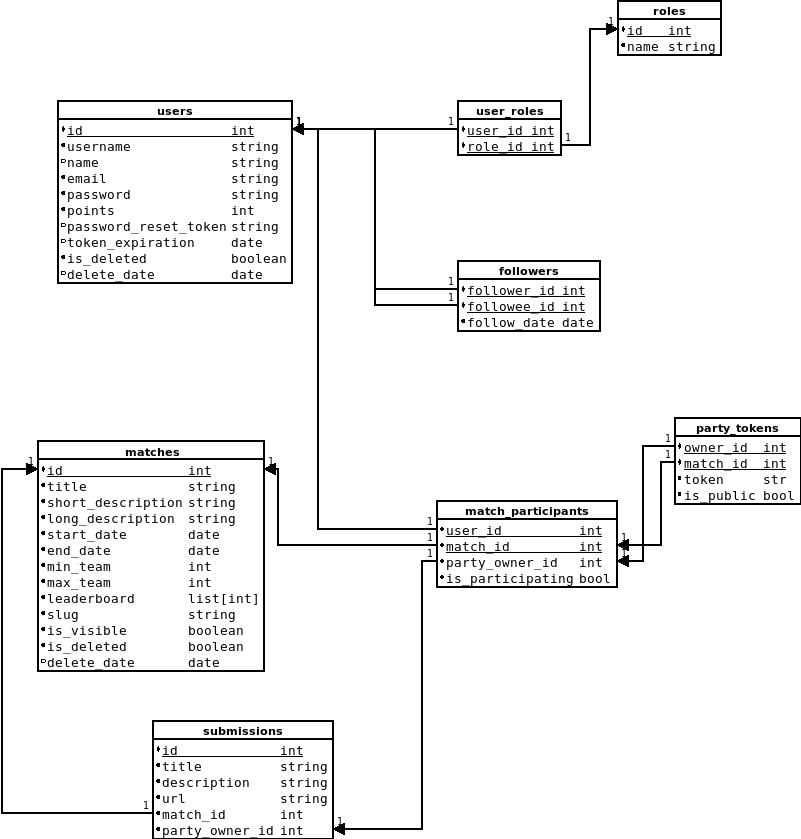
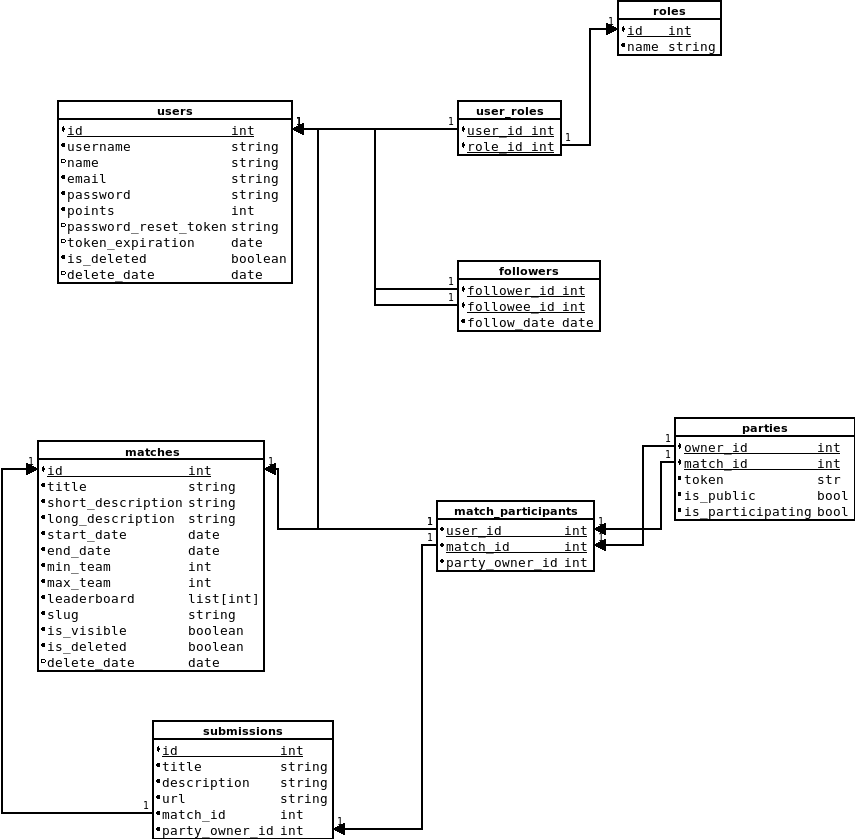
publish: Changed PartyToken to Party
generated from commit ce387fedfbb9ed21f8b54d0d9df1e5b9310710a0

diff --git a/index.html b/index.html
@@ -243,7 +243,7 @@
                     <a href="#matchparticipant" class="toc-h2 toc-link" data-title="MatchParticipant">MatchParticipant</a>
                   </li>
                   <li>
-                    <a href="#partytoken" class="toc-h2 toc-link" data-title="PartyToken">PartyToken</a>
+                    <a href="#party" class="toc-h2 toc-link" data-title="Party">Party</a>
                   </li>
                   <li>
                     <a href="#submission" class="toc-h2 toc-link" data-title="Submission">Submission</a>
@@ -705,14 +705,9 @@ token as public, which in turn shows the party in a <em>Looking For Group</em> s
 <td>integer</td>
 <td>ID of the owner of the party the user is currently in [Foreign key]</td>
 </tr>
-<tr>
-<td>is_participating</td>
-<td>boolean</td>
-<td>Flag that is set when the match begins indicating whether the user is participating in the match (e.g. the party has the required number of members)</td>
-</tr>
 </tbody></table>
-<h2 id='partytoken'>PartyToken</h2>
-<p>Party tokens are used to join a party.</p>
+<h2 id='party'>Party</h2>
+<p>Party marks. Contain tokens that are used to join a party.</p>
 
 <p>These tokens are created on demand when the user signs up for a match and is
 the owner of the party they are currently in. The token is deleted when
@@ -749,6 +744,11 @@ the user joins a different party.</p>
 <td>must provide the link to join the party manually</td>
 <td></td>
 <td></td>
+</tr>
+<tr>
+<td>is_participating</td>
+<td>boolean</td>
+<td>Flag that is set when the match begins indicating whether the party is participating in the match (e.g. the party has the required number of members)</td>
 </tr>
 </tbody></table>
 <h2 id='submission'>Submission</h2>
@@ -863,8 +863,8 @@ a user&#39;s own account.</p>
 <p>Example response [409]:</p>
 </blockquote>
 <pre class="highlight json tab-json"><code><span class="p">{</span><span class="w">
-    </span><span class="s2">"status"</span><span class="p">:</span><span class="w"> </span><span class="s2">"error"</span><span class="p">,</span><span class="w">
-    </span><span class="s2">"message"</span><span class="p">:</span><span class="w"> </span><span class="s2">"A user with the specified details already exists"</span><span class="w">
+    </span><span class="s2">"status"</span><span class="p">:</span><span class="w"> </span><span class="s2">"fail"</span><span class="p">,</span><span class="w">
+    </span><span class="s2">"data"</span><span class="p">:</span><span class="w"> </span><span class="s2">"A user with the specified details already exists"</span><span class="w">
 </span><span class="p">}</span><span class="w">
 </span></code></pre>
 <blockquote>
@@ -1116,6 +1116,16 @@ Authenticated endpoint.
 </span><span class="p">}</span><span class="w">
 </span></code></pre>
 <blockquote>
+<p>Example response [400]:</p>
+</blockquote>
+<pre class="highlight json tab-json"><code><span class="p">{</span><span class="w">
+    </span><span class="s2">"status"</span><span class="p">:</span><span class="w"> </span><span class="s2">"fail"</span><span class="p">,</span><span class="w">
+    </span><span class="s2">"data"</span><span class="p">:</span><span class="w"> </span><span class="p">{</span><span class="w">
+        </span><span class="s2">"email"</span><span class="p">:</span><span class="w"> </span><span class="s2">"Invalid email"</span><span class="w">
+    </span><span class="p">}</span><span class="w">
+</span><span class="p">}</span><span class="w">
+</span></code></pre>
+<blockquote>
 <p>Example response [404]:</p>
 </blockquote>
 <pre class="highlight json tab-json"><code><span class="p">{</span><span class="w">
@@ -1142,6 +1152,10 @@ Authenticated endpoint.
 <tr>
 <td>200</td>
 <td>Profile was found, returns new details</td>
+</tr>
+<tr>
+<td>400</td>
+<td>Email format was not valid</td>
 </tr>
 <tr>
 <td>404</td>
@@ -1381,7 +1395,7 @@ Authenticated endpoint.
 <pre class="highlight json tab-json"><code><span class="p">{</span><span class="w">
     </span><span class="s2">"status"</span><span class="p">:</span><span class="w"> </span><span class="s2">"fail"</span><span class="p">,</span><span class="w">
     </span><span class="s2">"data"</span><span class="p">:</span><span class="w"> </span><span class="p">{</span><span class="w">
-        </span><span class="s2">"password"</span><span class="p">:</span><span class="w"> </span><span class="s2">"Field was missing in request"</span><span class="w">
+        </span><span class="s2">"current-password"</span><span class="p">:</span><span class="w"> </span><span class="s2">"Field was missing in request"</span><span class="w">
         </span><span class="s2">"new-password"</span><span class="p">:</span><span class="w"> </span><span class="s2">"Password not complex enough"</span><span class="w">
     </span><span class="p">}</span><span class="w">
 </span><span class="p">}</span><span class="w">
@@ -1477,6 +1491,16 @@ and belongs to a user account.</p>
 </span><span class="p">}</span><span class="w">
 </span></code></pre>
 <blockquote>
+<p>Example response [400]:</p>
+</blockquote>
+<pre class="highlight json tab-json"><code><span class="p">{</span><span class="w">
+    </span><span class="s2">"status"</span><span class="p">:</span><span class="w"> </span><span class="s2">"success"</span><span class="p">,</span><span class="w">
+    </span><span class="s2">"data"</span><span class="p">:</span><span class="w"> </span><span class="p">{</span><span class="w">
+        </span><span class="s2">"email"</span><span class="p">:</span><span class="w"> </span><span class="s2">"Field was missing"</span><span class="w">
+    </span><span class="p">}</span><span class="w"> 
+</span><span class="p">}</span><span class="w">
+</span></code></pre>
+<blockquote>
 <p>Example response [500]:</p>
 </blockquote>
 <pre class="highlight json tab-json"><code><span class="p">{</span><span class="w">
@@ -1495,6 +1519,10 @@ and belongs to a user account.</p>
 <tr>
 <td>200</td>
 <td>Password reset token generated (if the email exists)</td>
+</tr>
+<tr>
+<td>400</td>
+<td>Email field was missing</td>
 </tr>
 <tr>
 <td>500</td>
@@ -1639,6 +1667,14 @@ endpoint), it is not recommended.</p>
     </span><span class="p">}</span><span class="w">
 </span></code></pre>
 <blockquote>
+<p>Example response[404]:</p>
+</blockquote>
+<pre class="highlight json tab-json"><code><span class="p">{</span><span class="w">
+    </span><span class="s2">"status"</span><span class="p">:</span><span class="w"> </span><span class="s2">"error"</span><span class="p">,</span><span class="w">
+    </span><span class="s2">"message"</span><span class="p">:</span><span class="w"> </span><span class="s2">"Invalid token"</span><span class="w">
+</span><span class="p">}</span><span class="w">
+</span></code></pre>
+<blockquote>
 <p>Example response [500]:</p>
 </blockquote>
 <pre class="highlight json tab-json"><code><span class="p">{</span><span class="w">
@@ -1661,6 +1697,10 @@ endpoint), it is not recommended.</p>
 <tr>
 <td>400</td>
 <td>Password was not complex enough or the confirmation did not match</td>
+</tr>
+<tr>
+<td>404</td>
+<td>Reset token was not found</td>
 </tr>
 <tr>
 <td>500</td>
@@ -1981,7 +2021,7 @@ Authenticated endpoint.
 for the user in the specified match. By default, the user will be in their own
 party, therefore the <code>party_owner_id</code> will be the user ID.</p>
 
-<p>In addition, a <a href="#partytoken"><code>PartyToken</code></a> is also created. This token can be
+<p>In addition, a <a href="#party"><code>Party</code></a> is also created. The party token can be
 used to invite other users to your own party. It is deleted once the user joins
 a party owned by another user.</p>
 <h3 id='http-request-5'>HTTP Request</h3>
@@ -2043,6 +2083,16 @@ a party owned by another user.</p>
 </span><span class="p">}</span><span class="w">
 </span></code></pre>
 <blockquote>
+<p>Example response [403]:</p>
+</blockquote>
+<pre class="highlight json tab-json"><code><span class="p">{</span><span class="w">
+    </span><span class="s2">"status"</span><span class="p">:</span><span class="w"> </span><span class="s2">"fail"</span><span class="p">,</span><span class="w">
+    </span><span class="s2">"data"</span><span class="p">:</span><span class="w"> </span><span class="p">{</span><span class="w">
+        </span><span class="s2">"match"</span><span class="p">:</span><span class="w"> </span><span class="s2">"Match has already started"</span><span class="w">
+    </span><span class="p">}</span><span class="w">
+</span><span class="p">}</span><span class="w">
+</span></code></pre>
+<blockquote>
 <p>Example response [404]:</p>
 </blockquote>
 <pre class="highlight json tab-json"><code><span class="p">{</span><span class="w">
@@ -2083,6 +2133,10 @@ a party owned by another user.</p>
 <td>Not logged in</td>
 </tr>
 <tr>
+<td>403</td>
+<td>Match has already started</td>
+</tr>
+<tr>
 <td>404</td>
 <td>Match was not found (or is invisible or removed)</td>
 </tr>
@@ -2099,6 +2153,8 @@ Authenticated endpoint.
 <p>Leave a match before it begins. This implies that the user will automatically
 leave any party they are in and their <a href="#matchparticipant"><code>MatchParticipant</code></a>
 record will be deleted.</p>
+
+<p>A party leader cannot leave until the party is empty.</p>
 <h3 id='http-request-6'>HTTP Request</h3>
 <p><code>POST /v1/match/leave</code></p>
 
@@ -2156,6 +2212,16 @@ record will be deleted.</p>
 </span><span class="p">}</span><span class="w">
 </span></code></pre>
 <blockquote>
+<p>Example response [403]:</p>
+</blockquote>
+<pre class="highlight json tab-json"><code><span class="p">{</span><span class="w">
+    </span><span class="s2">"status"</span><span class="p">:</span><span class="w"> </span><span class="s2">"fail"</span><span class="p">,</span><span class="w">
+    </span><span class="s2">"data"</span><span class="p">:</span><span class="w"> </span><span class="p">{</span><span class="w">
+        </span><span class="s2">"match"</span><span class="p">:</span><span class="w"> </span><span class="s2">"The party is not empty"</span><span class="w">
+    </span><span class="p">}</span><span class="w">
+</span><span class="p">}</span><span class="w">
+</span></code></pre>
+<blockquote>
 <p>Example response [404]:</p>
 </blockquote>
 <pre class="highlight json tab-json"><code><span class="p">{</span><span class="w">
@@ -2194,6 +2260,10 @@ record will be deleted.</p>
 <tr>
 <td>401</td>
 <td>Not logged in</td>
+</tr>
+<tr>
+<td>403</td>
+<td>The party is not empty</td>
 </tr>
 <tr>
 <td>404</td>
@@ -2336,11 +2406,13 @@ functionality.</p>
         </span><span class="s2">"list"</span><span class="p">:</span><span class="w"> </span><span class="p">[</span><span class="w">
             </span><span class="p">{</span><span class="w">
                 </span><span class="s2">"leader"</span><span class="p">:</span><span class="w"> </span><span class="s2">"user16"</span><span class="p">,</span><span class="w">
-                </span><span class="s2">"members"</span><span class="p">:</span><span class="w"> </span><span class="p">[</span><span class="s2">"user16"</span><span class="p">]</span><span class="w">
+                </span><span class="s2">"members"</span><span class="p">:</span><span class="w"> </span><span class="p">[</span><span class="s2">"user16"</span><span class="p">],</span><span class="w">
+                </span><span class="s2">"party-token"</span><span class="p">:</span><span class="w"> </span><span class="s2">"12345678"</span><span class="w">
             </span><span class="p">},</span><span class="w">
             </span><span class="p">{</span><span class="w">
                 </span><span class="s2">"leader"</span><span class="p">:</span><span class="w"> </span><span class="s2">"user48"</span><span class="p">,</span><span class="w">
-                </span><span class="s2">"members"</span><span class="p">:</span><span class="w"> </span><span class="p">[</span><span class="s2">"user45"</span><span class="p">,</span><span class="w"> </span><span class="s2">"user91"</span><span class="p">]</span><span class="w">
+                </span><span class="s2">"members"</span><span class="p">:</span><span class="w"> </span><span class="p">[</span><span class="s2">"user45"</span><span class="p">,</span><span class="w"> </span><span class="s2">"user91"</span><span class="p">],</span><span class="w">
+                </span><span class="s2">"party-token"</span><span class="p">:</span><span class="w"> </span><span class="s2">"abcdefgh"</span><span class="w">
             </span><span class="p">}</span><span class="w">
         </span><span class="p">]</span><span class="w"> 
     </span><span class="p">}</span><span class="w">
@@ -2397,7 +2469,7 @@ match is over (for historic purposes).</p>
 </blockquote>
 <pre class="highlight json tab-json"><code><span class="p">{</span><span class="w">
     </span><span class="s2">"match"</span><span class="p">:</span><span class="w"> </span><span class="s2">"test-match"</span><span class="w">
-    </span><span class="s2">"party"</span><span class="p">:</span><span class="w"> </span><span class="mi">42</span><span class="w">
+    </span><span class="s2">"party"</span><span class="p">:</span><span class="w"> </span><span class="s2">"test1"</span><span class="w">
 </span><span class="p">}</span><span class="w">
 </span></code></pre><h3 id='parameters-9'>Parameters</h3>
 <table><thead>
@@ -2419,8 +2491,8 @@ match is over (for historic purposes).</p>
 </tr>
 <tr>
 <td>party</td>
-<td>integer</td>
-<td>(Optional) ID of the leader of the party</td>
+<td>string</td>
+<td>(Optional) username of the leader of the party</td>
 </tr>
 </tbody></table>
 
@@ -2442,12 +2514,12 @@ submissions from other parties after the match.</p>
 </span><span class="p">}</span><span class="w">
 </span></code></pre>
 <blockquote>
-<p>Example response (missing match) [404]:</p>
+<p>Example response (missing match) [403]:</p>
 </blockquote>
 <pre class="highlight json tab-json"><code><span class="p">{</span><span class="w">
     </span><span class="s2">"status"</span><span class="p">:</span><span class="w"> </span><span class="s2">"fail"</span><span class="p">,</span><span class="w">
     </span><span class="s2">"data"</span><span class="p">:</span><span class="w"> </span><span class="p">{</span><span class="w">
-        </span><span class="s2">"match"</span><span class="p">:</span><span class="w"> </span><span class="s2">"Match not found"</span><span class="w">
+        </span><span class="s2">"match"</span><span class="p">:</span><span class="w"> </span><span class="s2">"Match not finished"</span><span class="w">
     </span><span class="p">}</span><span class="w">
 </span><span class="p">}</span><span class="w">
 </span></code></pre>
@@ -2472,6 +2544,10 @@ submissions from other parties after the match.</p>
 <tr>
 <td>200</td>
 <td>Party submission details</td>
+</tr>
+<tr>
+<td>403</td>
+<td>Match not started/finished</td>
 </tr>
 <tr>
 <td>404</td>
@@ -2594,7 +2670,7 @@ the user in the case of individual matches.</p>
 </tr>
 <tr>
 <td>403</td>
-<td>The user is not the party leader and cannot change the submission</td>
+<td>The user is not the party leader and cannot change the submission or the match has finished</td>
 </tr>
 <tr>
 <td>404</td>
@@ -2611,7 +2687,7 @@ Authenticated endpoint.
 <p>Join a party by using the invite token provided by the party leader, or found
 through LFG if the party is public.</p>
 
-<p>By joining a party, the <code>PartyToken</code> record created for the user (technically
+<p>By joining a party, the <code>Party</code> record created for the user (technically
 in their own party) is deleted, and the <code>party_owner_id</code> of the
 <code>MatchParticipant</code> record is set to the ID of the leader of the new party.</p>
 <h3 id='http-request'>HTTP Request</h3>
@@ -2720,7 +2796,7 @@ Authenticated endpoint.
 <p>Leave a party. This can only be performed by non-leader members of the party
 and before the match starts.</p>
 
-<p>When the user leaves a party, a new <code>PartyToken</code> record is created to indicate
+<p>When the user leaves a party, a new <code>Party</code> record is created to indicate
 that they are in their own party, and the <code>party_owner_id</code> in their
 <code>MatchParticipant</code> record is set to their own ID.</p>
 <h3 id='http-request-2'>HTTP Request</h3>
@@ -2839,7 +2915,7 @@ Only the party leader can perform this action.
 
 <p>Kick another member from a party.</p>
 
-<p>By kicking them, a <code>PartyToken</code> record is created for the kicked member (as
+<p>By kicking them, a <code>Party</code> record is created for the kicked member (as
 they are now considered to be in their own party), and the <code>party_owner_id</code>
 attribute in their <code>MatchParticipant</code> record is set to their own ID.</p>
 <h3 id='http-request-3'>HTTP Request</h3>
